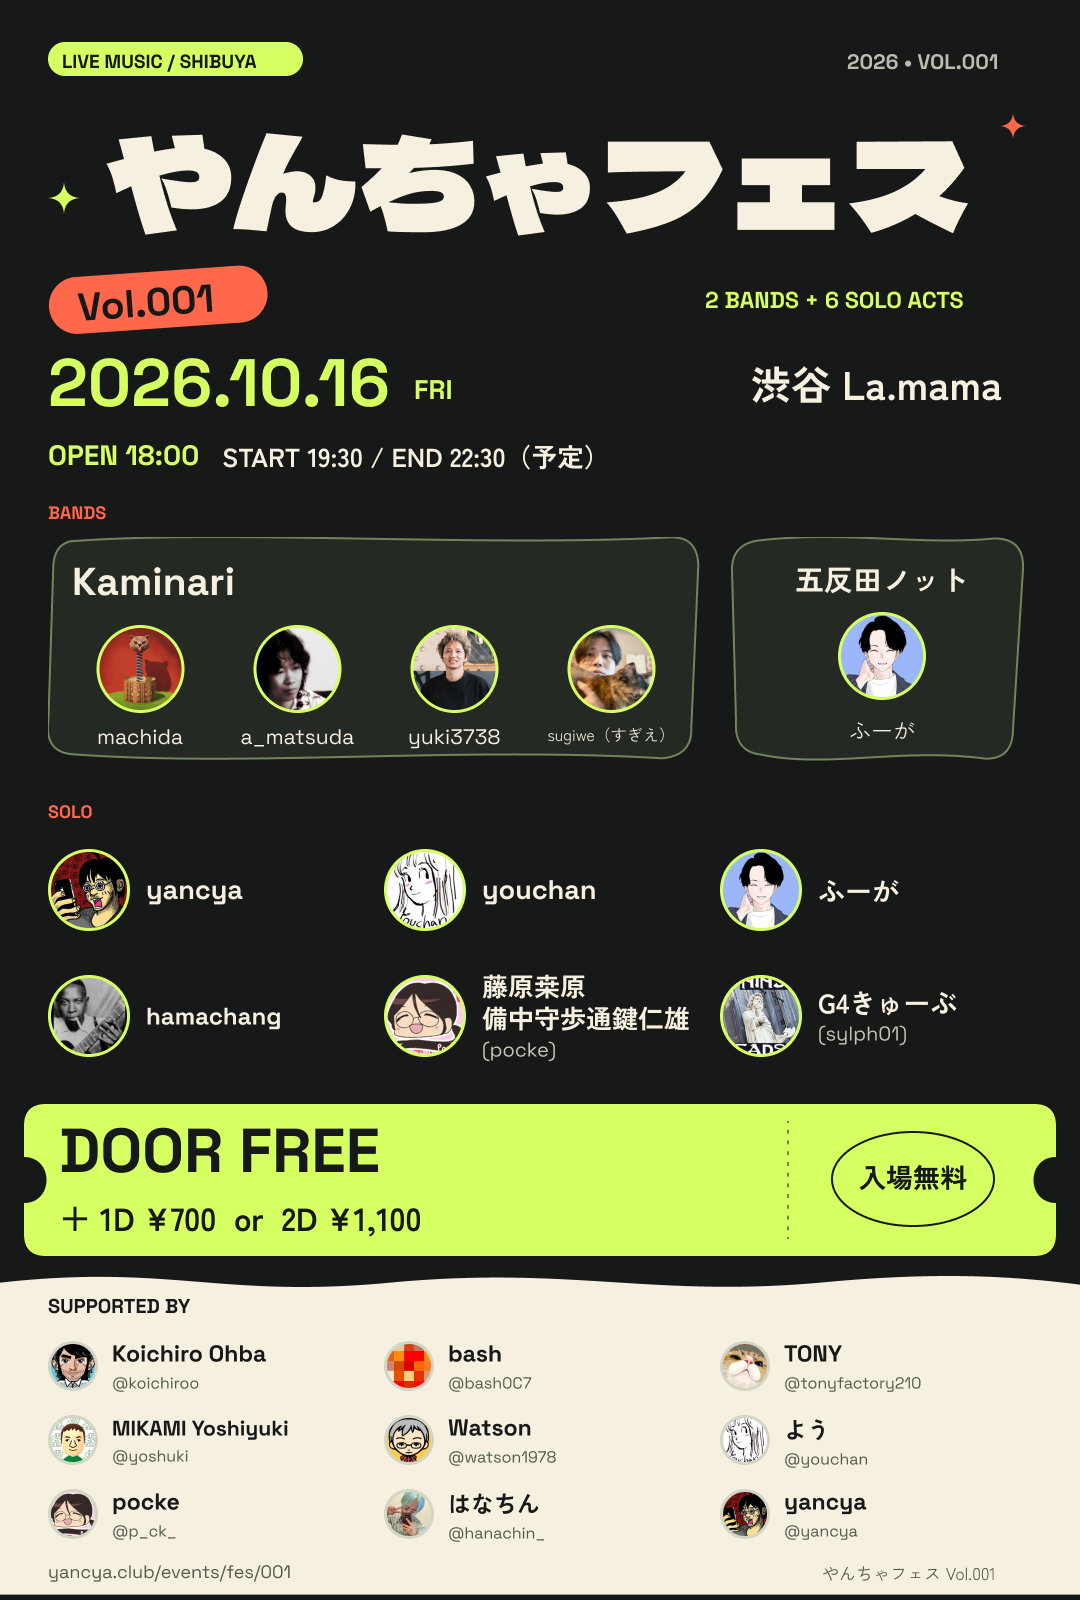
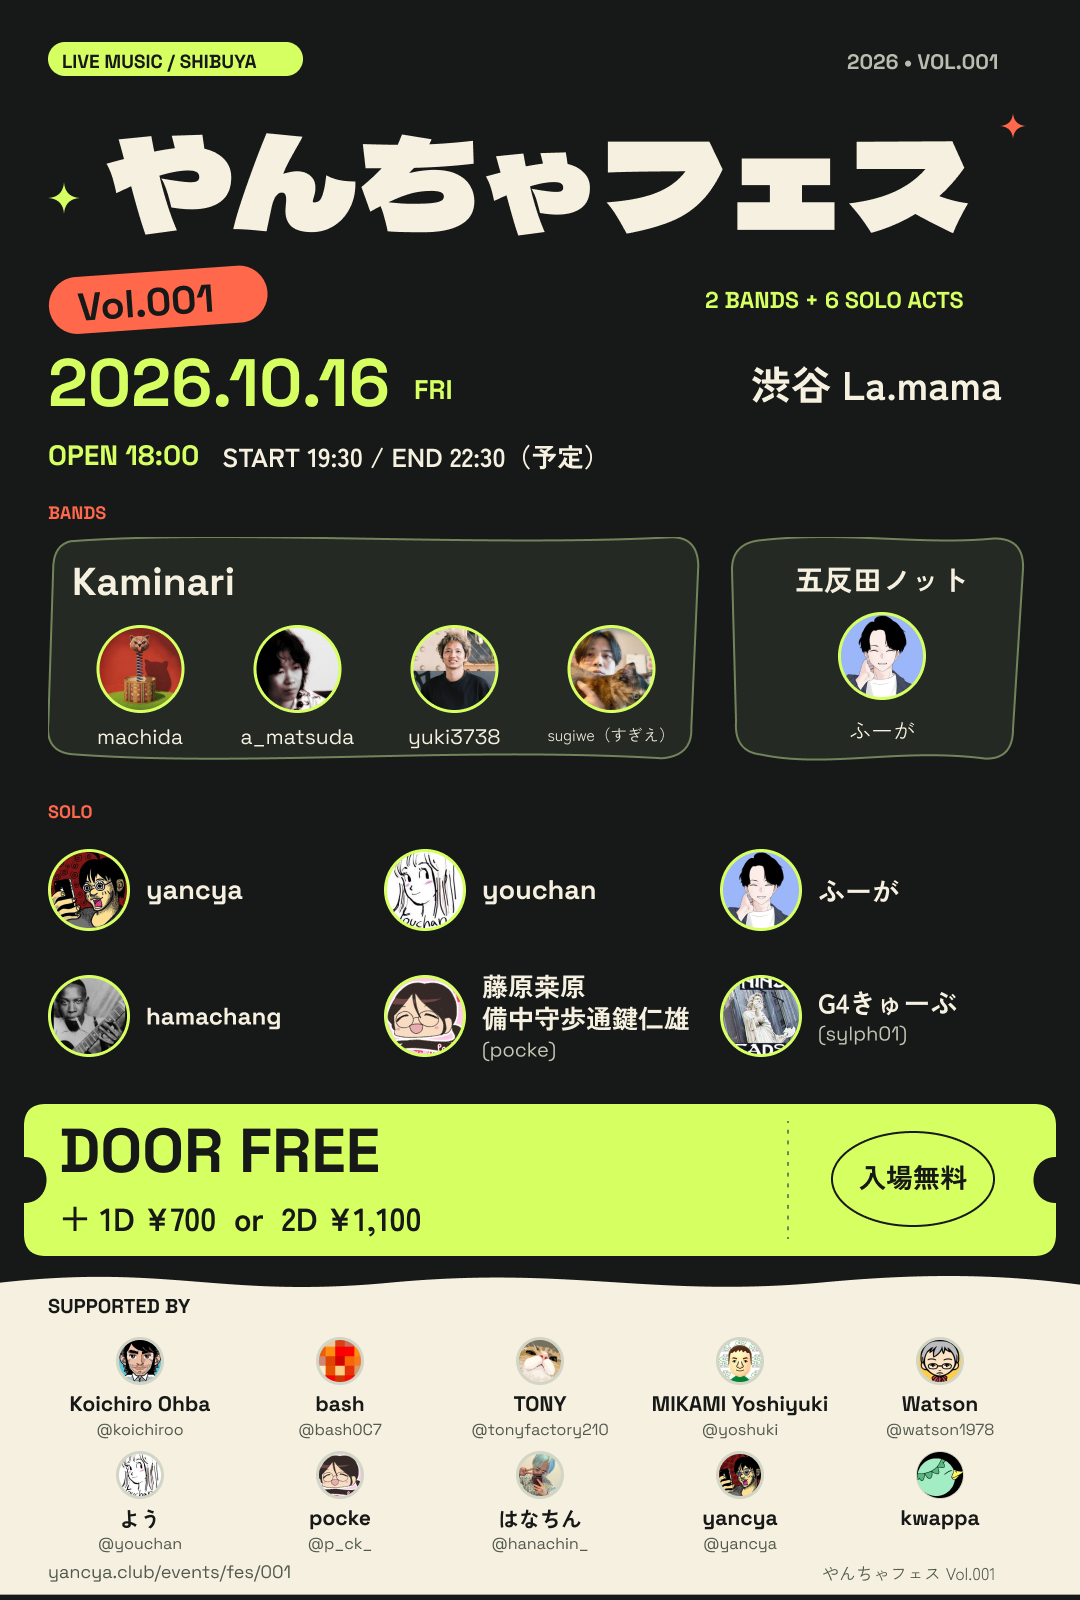
やんちゃフェス Vol.001 のフライヤーにスポンサー kwappa さんを追加
スポンサー欄を10人（5人ずつ2段）にした版へ差し替え、
画像の代替テキストのスポンサー一覧にも kwappa を追加。

Claude-Session: https://claude.ai/code/session_011QxoAMP2pmgDGUpbVBFicE

Changed region(s): [[0.0306, 0.8125, 0.55, 0.9688], [0.6111, 0.8125, 0.7944, 0.9688], [0.825, 0.8125, 0.9167, 0.9688]]

diff --git a/docs/events/fes/001/index.html b/docs/events/fes/001/index.html
@@ -17,7 +17,7 @@
 <main>
 <nav><a href="https://yancya.club/events">イベント一覧へ</a></nav>
 <h1 class="sr-only">やんちゃフェス Vol.001</h1>
-<a class="image" href="flyer.png" aria-label="フライヤー画像を原寸で開く"><img src="flyer.png" width="1080" height="1600" alt="やんちゃフェス Vol.001。2026年10月16日金曜日、渋谷La.mama。18:00開場、19:30開演、22:30終演予定。出演バンドはKaminari（machida、a_matsuda、yuki3738、sugiwe）と五反田ノット（ふーが）。ソロはyancya、youchan、ふーが、hamachang、藤原桒原備中守歩通鍵仁雄（pocke）、G4きゅーぶ（sylph01）。入場無料、1ドリンク700円または2ドリンク1,100円。個人スポンサーはKoichiro Ohba、bash、TONY、MIKAMI Yoshiyuki、Watson、よう、pocke、はなちん、yancya。"></a>
+<a class="image" href="flyer.png" aria-label="フライヤー画像を原寸で開く"><img src="flyer.png" width="1080" height="1600" alt="やんちゃフェス Vol.001。2026年10月16日金曜日、渋谷La.mama。18:00開場、19:30開演、22:30終演予定。出演バンドはKaminari（machida、a_matsuda、yuki3738、sugiwe）と五反田ノット（ふーが）。ソロはyancya、youchan、ふーが、hamachang、藤原桒原備中守歩通鍵仁雄（pocke）、G4きゅーぶ（sylph01）。入場無料、1ドリンク700円または2ドリンク1,100円。個人スポンサーはKoichiro Ohba、bash、TONY、MIKAMI Yoshiyuki、Watson、よう、pocke、はなちん、yancya、kwappa。"></a>
 <a class="image" href="access.png" aria-label="アクセス画像を原寸で開く"><img src="access.png" width="1080" height="1200" loading="lazy" alt="ベルサール渋谷ガーデンからLa.mamaへ徒歩約10分、650m。玉川通りを渋谷駅方向に進み、連絡通路の階段を渡って左へ、渋谷中央通りを右へ。左の路地に入り前方左側、プリメーラ道玄坂の地下1階。経路の概略図。"></a>
 <a class="route" href="https://www.google.com/maps/dir/?api=1&amp;origin=35.6538781%2C139.6938606&amp;destination=35.6571678%2C139.697934&amp;travelmode=walking" target="_blank" rel="noopener">Google マップで徒歩ルートを開く ↗</a>
 <p class="note">画像をタップすると原寸で表示できます。徒歩時間は目安です。経路には階段を含みます。</p>
